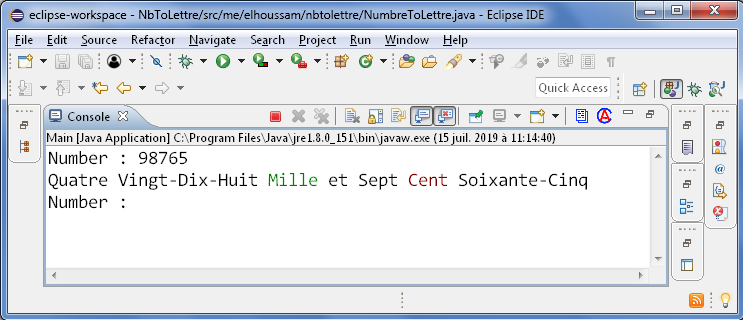
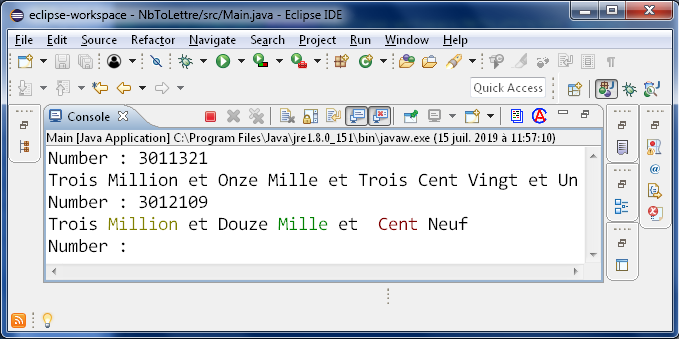
Update README.md

diff --git a/README.md b/README.md
@@ -3,6 +3,10 @@ This is simple java console based app <br />
 that take as input Long number and <br />
 GENERATE suite of lettre 
 
-Rule
+
+Hint
 ----
 * input must be in this intervalle : [0, Long.MAX_VALUE]
+* you can switch ON/OFF colored output from ToggleColor()
+
+![alt text](img.png)
